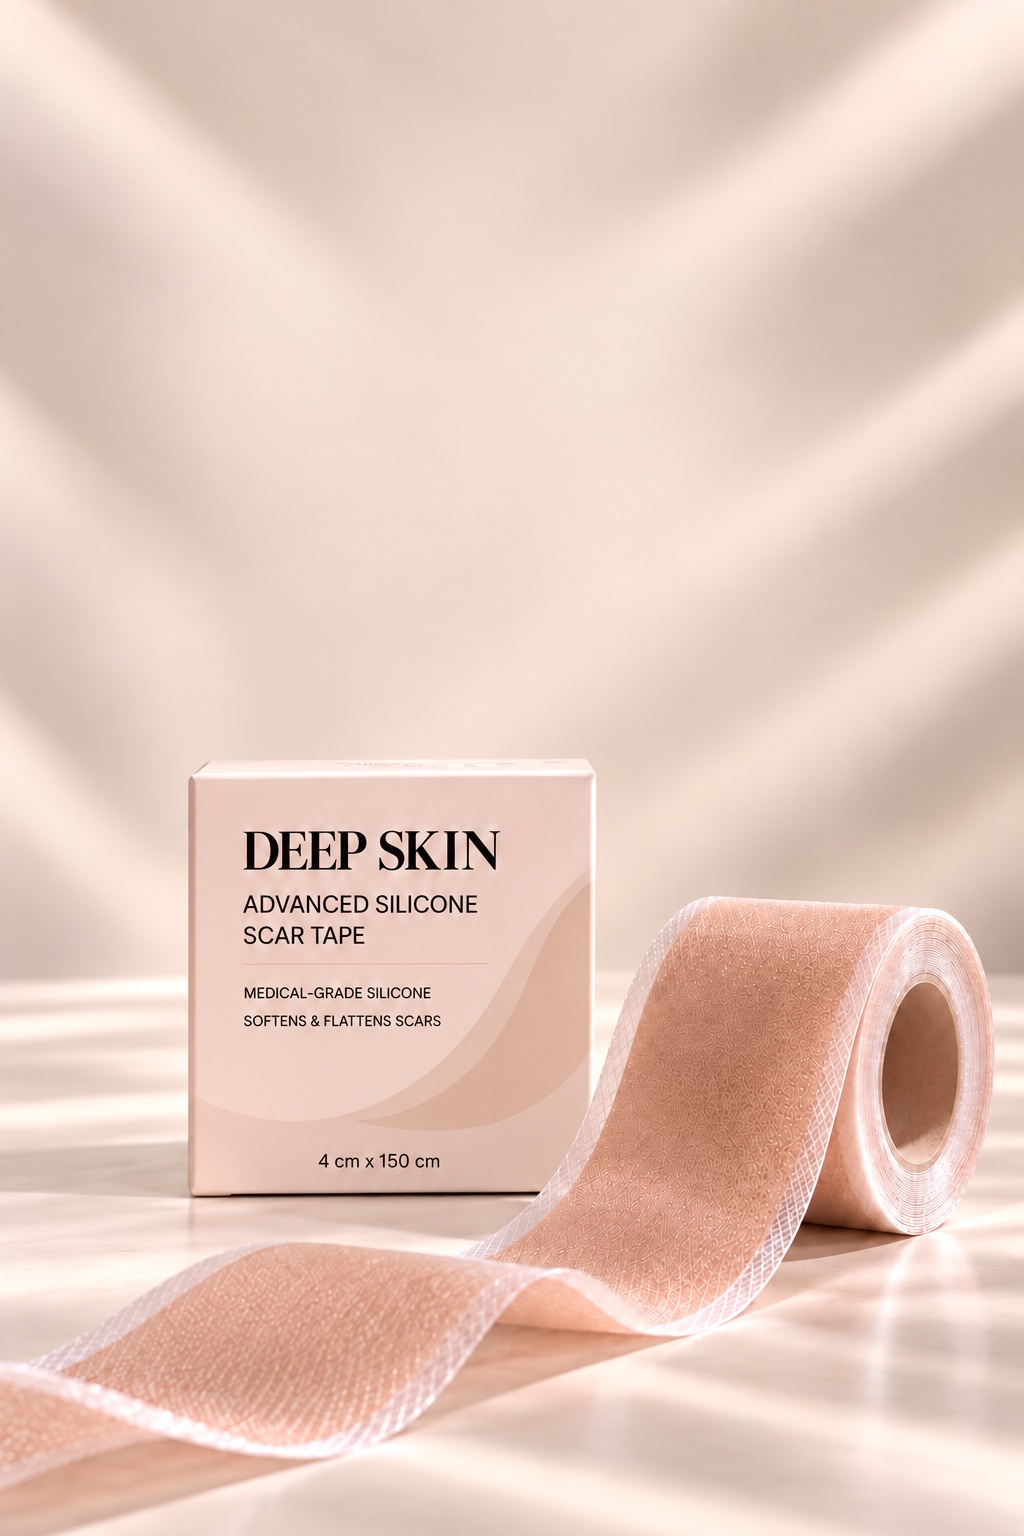
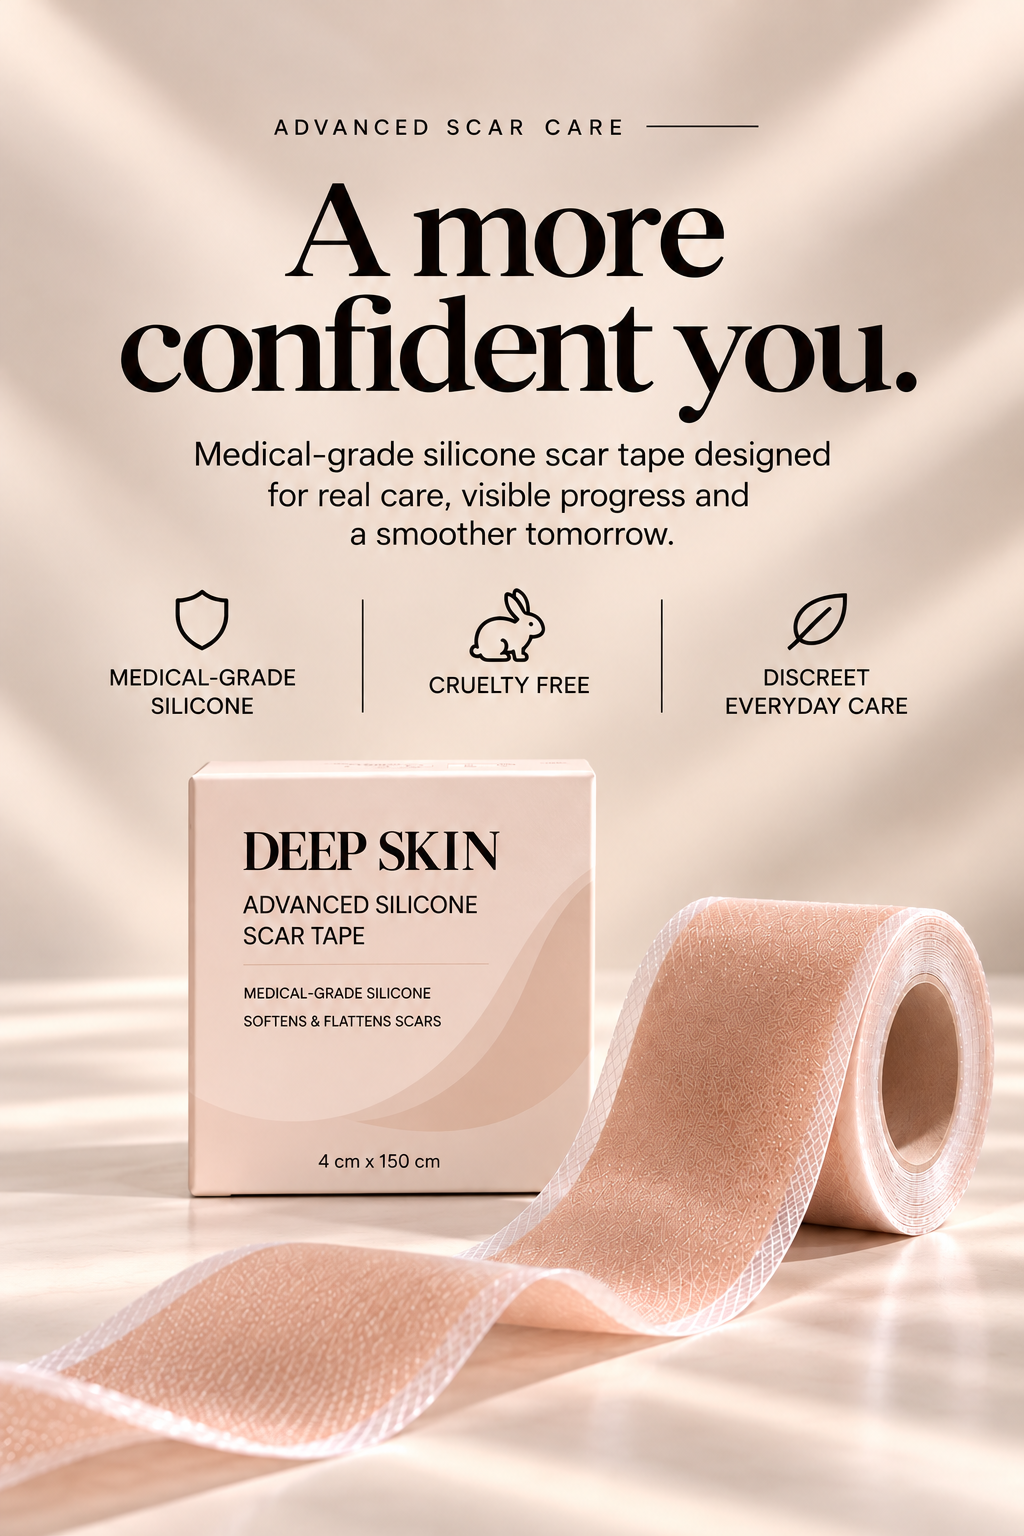
update mobile design

diff --git a/src/components/Hero.jsx b/src/components/Hero.jsx
@@ -1,5 +1,6 @@
 import { motion as Motion } from 'framer-motion'
 import { Leaf, Rabbit, Shield } from 'lucide-react'
+import { AMAZON_URL } from '../config'
 
 const heroFeatures = [
   { icon: Shield, lines: ['Medical-grade', 'silicone'] },
@@ -7,24 +8,29 @@ const heroFeatures = [
   { icon: Leaf, lines: ['Discreet', 'everyday care'] },
 ]
 
-function FeatureRow({ mobile = false }) {
+function FeatureRow() {
   return (
-    <div className={`flex items-stretch ${mobile ? 'mx-auto mt-5 w-[92%] max-w-[23rem]' : 'mt-10 w-[31rem]'}`}>
+    <div className="mt-10 flex w-[31rem] items-stretch">
       {heroFeatures.map((feature, index) => (
         <div
           key={feature.lines.join('-')}
           className={`relative flex flex-1 flex-col items-center justify-start px-3 text-center ${
-            index > 0 ? 'before:absolute before:inset-y-1 before:left-0 before:w-px before:bg-cocoa/65' : ''
+            index > 0
+              ? 'before:absolute before:inset-y-1 before:left-0 before:w-px before:bg-cocoa/65'
+              : ''
           }`}
         >
           <feature.icon
             aria-hidden="true"
             strokeWidth={1.65}
-            className={`${mobile ? 'size-8' : 'size-9'} text-cocoa`}
+            className="size-9 text-cocoa"
           />
-          <p className={`${mobile ? 'mt-2 text-[0.68rem] leading-[1.25]' : 'mt-2.5 text-[0.72rem] leading-[1.25]'} font-semibold uppercase tracking-[-0.01em] text-cocoa`}>
+
+          <p className="mt-2.5 text-[0.72rem] font-semibold uppercase leading-[1.25] tracking-[-0.01em] text-cocoa">
             {feature.lines.map((line) => (
-              <span key={line} className="block">{line}</span>
+              <span key={line} className="block">
+                {line}
+              </span>
             ))}
           </p>
         </div>
@@ -33,50 +39,60 @@ function FeatureRow({ mobile = false }) {
   )
 }
 
-function Eyebrow({ centred = false }) {
+function Eyebrow() {
   return (
-    <div className={`flex items-center gap-4 ${centred ? 'justify-center' : ''}`}>
-      <p className="text-[0.69rem] font-semibold uppercase tracking-[0.28em] text-cocoa sm:text-[0.76rem] lg:text-[0.82rem]">
+    <div className="flex items-center gap-4">
+      <p className="text-[0.76rem] font-semibold uppercase tracking-[0.28em] text-cocoa lg:text-[0.82rem]">
         Advanced scar care
       </p>
-      <span aria-hidden="true" className="h-px w-14 bg-cocoa/65 sm:w-20" />
+
+      <span
+        aria-hidden="true"
+        className="h-px w-20 bg-cocoa/65"
+      />
     </div>
   )
 }
 
 export default function Hero() {
   return (
-    <section id="top" className="relative isolate h-[820px] overflow-hidden bg-[#f3e2d9] md:h-[max(720px,100svh)]">
-      <picture className="absolute inset-0 -z-20">
-        <source media="(max-width: 767px)" srcSet="/hero-mobile.jpg" />
+    <>
+      {/* MOBILE HERO */}
+      <section
+        id="top"
+        className="bg-cream pt-16 md:hidden"
+      >
+        <Motion.img
+          initial={{ opacity: 0 }}
+          animate={{ opacity: 1 }}
+          transition={{ duration: 0.45 }}
+          src="/hero-mobile.jpg"
+          alt="Deep Skin advanced silicone scar tape"
+          fetchPriority="high"
+          className="block h-auto w-full"
+        />
+
+        <div className="px-5 pb-7 pt-4">
+          <a
+            href={AMAZON_URL}
+            target="_blank"
+            rel="noopener noreferrer"
+            className="flex min-h-[56px] w-full items-center justify-center rounded-full bg-cocoa px-6 py-4 text-[1rem] font-semibold tracking-[0.01em] text-white transition-colors active:bg-cocoa-light"
+          >
+            Shop on Amazon
+          </a>
+        </div>
+      </section>
+
+      {/* DESKTOP HERO — unchanged */}
+      <section className="relative isolate hidden h-[max(720px,100svh)] overflow-hidden bg-[#f3e2d9] md:block">
         <img
           src="/hero-desktop.jpg"
           alt="Deep Skin medical-grade silicone scar tape roll beside its product box"
           fetchPriority="high"
-          className="h-full w-full object-cover object-center"
+          className="absolute inset-0 -z-20 h-full w-full object-cover object-center"
         />
-      </picture>
 
-      <Motion.div
-        initial={{ opacity: 0 }}
-        animate={{ opacity: 1 }}
-        transition={{ duration: 0.55 }}
-        className="absolute inset-x-0 top-[4.2rem] px-4 text-center md:hidden"
-      >
-        <Eyebrow centred />
-        <h1 className="mt-4 font-serif text-[4rem] font-medium leading-[0.84] tracking-[-0.045em] text-cocoa">
-          A more
-          <span className="block">confident you.</span>
-        </h1>
-        <p className="mx-auto mt-4 max-w-[22rem] text-[0.93rem] font-medium leading-[1.45] tracking-[-0.012em] text-cocoa/88">
-          Medical-grade silicone scar tape designed<br className="hidden min-[365px]:block" />
-          for real care, visible progress and<br className="hidden min-[365px]:block" />
-          a smoother tomorrow.
-        </p>
-        <FeatureRow mobile />
-      </Motion.div>
-
-      <div className="absolute inset-0 hidden md:block">
         <Motion.div
           initial={{ opacity: 0 }}
           animate={{ opacity: 1 }}
@@ -84,18 +100,23 @@ export default function Hero() {
           className="absolute left-[5.7%] top-[14.5%] w-[43%] max-w-[43rem]"
         >
           <Eyebrow />
+
           <h1 className="mt-6 font-serif text-[clamp(4rem,6.15vw,6.4rem)] font-medium leading-[0.94] tracking-[-0.045em] text-cocoa">
             A more
             <span className="block">confident you.</span>
           </h1>
+
           <p className="mt-5 max-w-[32rem] text-[clamp(1rem,1.5vw,1.45rem)] font-medium leading-[1.42] tracking-[-0.015em] text-cocoa/88">
-            Medical-grade silicone scar tape designed<br className="hidden lg:block" />
-            for real care, visible progress and<br className="hidden lg:block" />
+            Medical-grade silicone scar tape designed
+            <br className="hidden lg:block" />
+            for real care, visible progress and
+            <br className="hidden lg:block" />
             a smoother tomorrow.
           </p>
+
           <FeatureRow />
         </Motion.div>
-      </div>
-    </section>
+      </section>
+    </>
   )
 }
